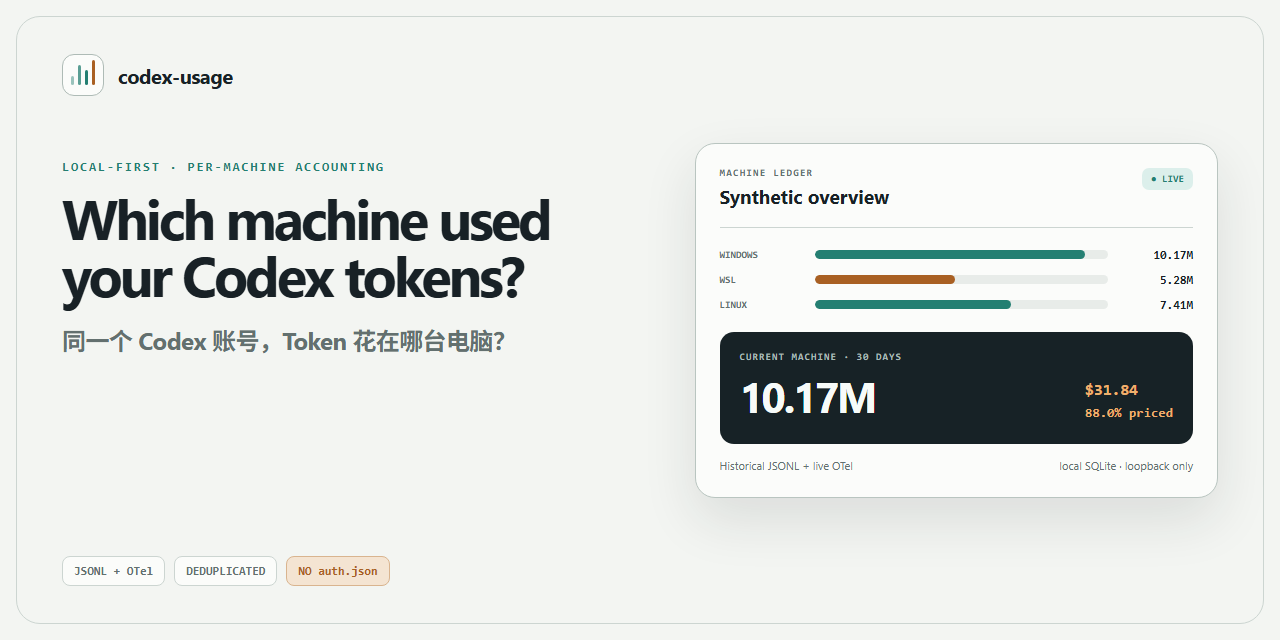
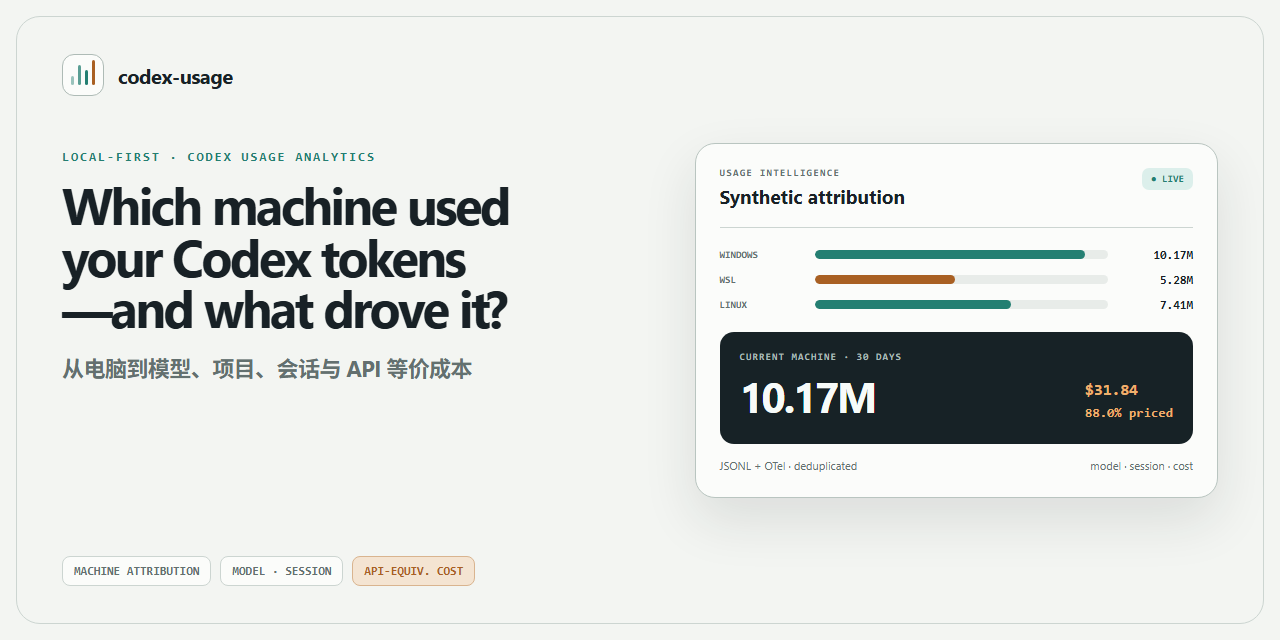
docs: broaden Codex usage analytics positioning

diff --git a/scripts/social-preview.html b/scripts/social-preview.html
@@ -15,9 +15,9 @@
     .mark { width:42px; height:42px; display:flex; align-items:end; justify-content:center; gap:4px; padding:10px 8px; border:1px solid #aebbb6; border-radius:12px; background:var(--paper); }
     .mark i { width:4px; border-radius:3px; background:var(--teal); }
     .mark i:nth-child(1){height:9px;opacity:.45}.mark i:nth-child(2){height:20px;opacity:.75}.mark i:nth-child(3){height:15px}.mark i:nth-child(4){height:25px;background:var(--copper)}
-    .kicker { margin:64px 0 16px; color:var(--teal); font:700 13px/1 ui-monospace,SFMono-Regular,Consolas,monospace; letter-spacing:.14em; }
-    h1 { max-width:650px; margin:0; font-size:56px; line-height:1.02; letter-spacing:-.055em; text-wrap:balance; }
-    .zh { margin:19px 0 0; color:var(--muted); font-size:24px; font-weight:650; letter-spacing:-.025em; }
+    .kicker { margin:54px 0 16px; color:var(--teal); font:700 13px/1 ui-monospace,SFMono-Regular,Consolas,monospace; letter-spacing:.14em; }
+    h1 { max-width:660px; margin:0; font-size:51px; line-height:1.01; letter-spacing:-.052em; text-wrap:balance; }
+    .zh { margin:17px 0 0; color:var(--muted); font-size:22px; font-weight:650; letter-spacing:-.025em; }
     .chips { display:flex; flex-wrap:wrap; gap:9px; margin-top:auto; }
     .chips span { padding:8px 11px; border:1px solid var(--line); border-radius:8px; color:var(--muted); background:var(--paper); font:650 12px/1 ui-monospace,SFMono-Regular,Consolas,monospace; }
     .chips span:last-child { color:var(--copper); border-color:#d9b48f; background:var(--copper-soft); }
@@ -44,20 +44,20 @@
   <main>
     <section class="copy">
       <div class="brand"><span class="mark" aria-hidden="true"><i></i><i></i><i></i><i></i></span>codex-usage</div>
-      <p class="kicker">LOCAL-FIRST · PER-MACHINE ACCOUNTING</p>
-      <h1>Which machine used your Codex tokens?</h1>
-      <p class="zh">同一个 Codex 账号，Token 花在哪台电脑？</p>
-      <div class="chips"><span>JSONL + OTel</span><span>DEDUPLICATED</span><span>NO auth.json</span></div>
+      <p class="kicker">LOCAL-FIRST · CODEX USAGE ANALYTICS</p>
+      <h1>Which machine used your Codex tokens—and what drove it?</h1>
+      <p class="zh">从电脑到模型、项目、会话与 API 等价成本</p>
+      <div class="chips"><span>MACHINE ATTRIBUTION</span><span>MODEL · SESSION</span><span>API-EQUIV. COST</span></div>
     </section>
     <section class="ledger">
-      <div class="ledger-head"><div><p>MACHINE LEDGER</p><strong>Synthetic overview</strong></div><span class="live">● LIVE</span></div>
+      <div class="ledger-head"><div><p>USAGE INTELLIGENCE</p><strong>Synthetic attribution</strong></div><span class="live">● LIVE</span></div>
       <div class="machines">
         <div class="machine"><small>WINDOWS</small><span class="track"><i style="width:92%"></i></span><b>10.17M</b></div>
         <div class="machine"><small>WSL</small><span class="track"><i style="width:48%"></i></span><b>5.28M</b></div>
         <div class="machine"><small>LINUX</small><span class="track"><i style="width:67%"></i></span><b>7.41M</b></div>
       </div>
       <div class="total"><div><p>CURRENT MACHINE · 30 DAYS</p><strong>10.17M</strong></div><div class="cost">$31.84<br><small>88.0% priced</small></div></div>
-      <div class="rule"><span>Historical JSONL + live OTel</span><span>local SQLite · loopback only</span></div>
+      <div class="rule"><span>JSONL + OTel · deduplicated</span><span>model · session · cost</span></div>
     </section>
   </main>
 </body>

diff --git a/internal/web/static/i18n.js b/internal/web/static/i18n.js
@@ -4,8 +4,8 @@
   const STORAGE_KEY = "codex-usage-locale";
   const catalogs = {
     "zh-CN": {
-      "app.title": "Codex Usage · 本机用量",
-      "app.description": "当前电脑的 Codex Token 用量与 Standard API 等价成本估算",
+      "app.title": "Codex Usage · 本地使用分析",
+      "app.description": "本地优先的 Codex 使用分析：逐电脑归属、模型/项目/会话明细与 Standard API 等价成本",
       "skip.main": "跳到主要内容",
       "brand.home": "返回概览",
       "nav.label": "主要视图",
@@ -227,8 +227,8 @@
       "scan.complete": "扫描完成：新增 {inserted} 个事件，忽略 {duplicates} 个重复"
     },
     en: {
-      "app.title": "Codex Usage · Per-machine usage",
-      "app.description": "Per-machine Codex token usage and Standard API-equivalent cost estimates",
+      "app.title": "Codex Usage · Local usage analytics",
+      "app.description": "Local-first Codex usage analytics by machine, model, project, and session, with Standard API-equivalent cost",
       "skip.main": "Skip to main content",
       "brand.home": "Return to overview",
       "nav.label": "Primary views",

diff --git a/internal/web/static/index.html b/internal/web/static/index.html
@@ -4,8 +4,8 @@
   <meta charset="utf-8">
   <meta name="viewport" content="width=device-width, initial-scale=1">
   <meta name="color-scheme" content="light dark">
-  <meta name="description" content="当前电脑的 Codex Token 用量与 Standard API 等价成本估算">
-  <title>Codex Usage · 本机用量</title>
+  <meta name="description" content="本地优先的 Codex 使用分析：逐电脑归属、模型/项目/会话明细与 Standard API 等价成本">
+  <title>Codex Usage · 本地使用分析</title>
   <link rel="stylesheet" href="/styles.css">
 </head>
 <body>
@@ -15,7 +15,7 @@
     <div class="topbar-inner">
       <button class="brand pressable" id="brandButton" type="button" aria-label="返回概览" data-i18n-aria-label="brand.home">
         <span class="brand-mark" aria-hidden="true"><i></i><i></i><i></i><i></i></span>
-        <span class="brand-copy"><strong>Codex Usage</strong><small>LOCAL USAGE</small></span>
+        <span class="brand-copy"><strong>Codex Usage</strong><small>USAGE ANALYTICS</small></span>
       </button>
 
       <nav class="primary-nav" role="tablist" aria-label="主要视图" data-i18n-aria-label="nav.label">

diff --git a/README.en.md b/README.en.md
@@ -2,9 +2,9 @@
 
 # codex-usage
 
-**Which machine used your Codex tokens?**
+**Which machine, model, project, or session used your Codex tokens?**
 
-*同一个 Codex 账号跑在多台电脑：哪台机器用掉了 Token？*
+*本地优先的 Codex 使用分析：从逐电脑归属，到模型、项目、会话与 API 等价成本。*
 
 [Live Demo](https://zjay26.github.io/codex-usage/?lang=en) · [Windows x64](https://github.com/zJay26/codex-usage/releases/latest/download/codex-usage-windows-amd64.exe) · [Linux x64](https://github.com/zJay26/codex-usage/releases/latest/download/codex-usage-linux-amd64) · English / [简体中文](README.md)
 
@@ -23,13 +23,28 @@
 
 Run one single-file binary on each Windows, WSL, or Linux host. It scans that machine's historical Codex JSONL and receives future usage over loopback OTel. Coverage-aware merge rules deduplicate the two sources, and the result stays in that machine's SQLite database. The Dashboard therefore answers **how much this computer used**, not how much the whole account used.
 
-The differentiators are deliberately narrow: per-machine scope, historical JSONL + live OTel, deduplication, single-file deployment, local-first operation, and **no access to `auth.json`**.
+Per-machine attribution is codex-usage's most distinctive entry point, but it is not the endpoint. It breaks the local total down by model and token category, project, Thread, Session, Agent, and local calendar day, then adds Standard API-equivalent cost, pricing coverage, and data-quality records.
+
+Codex's official [`/usage`](https://learn.chatgpt.com/docs/developer-commands.md?surface=cli) is useful for daily, weekly, and cumulative account token activity. codex-usage complements that account view with an explainable local attribution layer: **where these machine-local tokens came from and what drove them**.
+
+The analysis stays local-first: one binary, loopback-only services, local SQLite, and **no access to `auth.json` or conversation content**.
+
+## From totals to explainable usage analytics
+
+| Question | What codex-usage shows |
+|---|---|
+| Which machine used the tokens? | An independent ledger for each Windows, WSL, or Linux host |
+| Which models and token categories drove usage? | Model plus Input, Cached, Cache Write, Output, and Reasoning composition |
+| Which work drove it? | Project, Thread, Session, and main task / Subagent / Guardian / Memory attribution |
+| When did it happen? | Today, 7 days, 30 days, all time, local calendar days, and single-day drill-down |
+| What would it roughly cost at API rates? | Standard API-equivalent cost with explicit token pricing coverage |
+| Can the number be audited? | JSONL / OTel provenance, coverage-aware deduplication, unattributed deltas, and data-quality records |
 
 ## What it counts / what it does not count
 
 | Counts | Does not count or read |
 |---|---|
-| Tokens, models, sources, projects, Threads, Agents, and local calendar days on this machine | Usage from other machines on the account |
+| Tokens, models, sources, projects, Threads, Sessions, Agents, and local calendar days on this machine | Usage from other machines on the account |
 | Historical session JSONL and future `turn.token_usage` OTel metrics | Account quota, subscription balance, or real bills |
 | Standard API text-token equivalent cost and pricing coverage | Prompts, replies, reasoning, tool output, or `auth.json` |
 | Dedup records, coverage gaps, and historical deltas without dates | Cloud sync, remote telemetry, or third-party analytics |
@@ -63,12 +78,13 @@ On a headless Linux server, Codex Usage prints an SSH tunnel command. Run it fro
 
 | Capability | What you get |
 |---|---|
-| Per-machine accounting | A separate `machine_id` and SQLite database on every host |
+| Signature per-machine attribution | A separate `machine_id` and SQLite database on every host |
 | Historical + live | Scan existing JSONL first, then receive official OTel metrics |
 | Deduplication | Merge OTel, JSONL, and state data by explicit coverage rules instead of summing them |
 | Daily drill-down | Continuous daily pulse, calendar, zero-usage days, and per-day model mix |
-| Useful attribution | Filter by model, source, project, Thread, main task, Subagent, Guardian, or Memory |
-| Equivalent cost | Query-time estimate with visible token pricing coverage; unknown usage never looks free |
+| Multi-dimensional usage analytics | Understand usage by model, token category, source, project, Thread, Session, main task, Subagent, Guardian, or Memory |
+| Cost insight | Query-time Standard API-equivalent estimate with visible token pricing coverage; unknown usage never looks free |
+| Auditable quality | Visible provenance, dedup records, coverage gaps, and historical deltas without dates |
 | Local-first | Loopback-only at `127.0.0.1`, embedded assets, and no runtime external requests |
 | Single binary | Windows/Linux, amd64/arm64, no CGO or external database service |
 | Bilingual | Dashboard and CLI support `zh-CN` / `en` through URL, button, flag, and environment |

diff --git a/README.md b/README.md
@@ -2,9 +2,9 @@
 
 # codex-usage
 
-**同一个 Codex 账号跑在多台电脑：哪台机器用掉了 Token？**
+**同一个 Codex 账号：哪台电脑、哪个模型、哪个项目和会话用掉了 Token？**
 
-*Which machine used your Codex tokens?*
+*Local-first Codex usage analytics—from machine attribution to models, projects, sessions, and API-equivalent cost.*
 
 [在线体验](https://zjay26.github.io/codex-usage/?lang=zh-CN) · [Windows x64 下载](https://github.com/zJay26/codex-usage/releases/latest/download/codex-usage-windows-amd64.exe) · [Linux x64 下载](https://github.com/zJay26/codex-usage/releases/latest/download/codex-usage-linux-amd64) · [English](README.en.md) / 简体中文
 
@@ -23,13 +23,28 @@
 
 在每台 Windows、WSL 或 Linux 主机分别运行一个单文件程序。它扫描该机的历史 Codex JSONL，并通过 loopback OTel 接收之后的新用量；两种来源按覆盖时间合并和去重，结果只写入该机的 SQLite。Dashboard 因而回答的是**这台电脑用了多少**，不是整个账号用了多少。
 
-核心差异只有六点：逐电脑口径、历史 JSONL + 实时 OTel、防重复计算、单文件部署、本地优先，以及**从不读取 `auth.json`**。
+逐电脑归属是 codex-usage 最鲜明的入口，但不是终点。它把本机总量继续拆到模型与 Token 类型、项目、Thread、Session、Agent 和本地自然日，并给出 Standard API 等价成本、定价覆盖率与数据质量记录。
+
+Codex 官方 [`/usage`](https://learn.chatgpt.com/docs/developer-commands.md?surface=cli) 适合查看账号级 daily / weekly / cumulative Token 活动；codex-usage 不替代官方视图，而是补上**这些本机 Token 在哪里产生、由什么构成**的可解释归属层。
+
+分析全程保持本地优先：单文件部署、loopback 服务、本机 SQLite，**从不读取 `auth.json` 或对话内容**。
+
+## 从总量到可解释的使用分析
+
+| 你想知道 | codex-usage 给出的视图 |
+|---|---|
+| 哪台电脑用了 Token？ | 每台 Windows、WSL 或 Linux 主机独立统计，保留清晰机器边界 |
+| 用在了什么模型与 Token 类型？ | 模型及 Input、Cached、Cache Write、Output、Reasoning 构成 |
+| 哪项工作驱动了用量？ | 项目、Thread、Session，以及主任务 / Subagent / Guardian / Memory 归属 |
+| 什么时候发生？ | 今天、7 日、30 日、全部历史、本地自然日与单日下钻 |
+| 如果按 API 价格折算大约是多少？ | Standard API 等价成本与明确的 Token 定价覆盖率 |
+| 这些数字能否被复核？ | JSONL / OTel 来源、防重覆盖区间、未归属差额与数据质量记录 |
 
 ## 它统计什么 / 不统计什么
 
 | 统计 | 不统计 |
 |---|---|
-| 当前电脑的 Token、模型、来源、项目、Thread、Agent 和本地自然日 | 账号在其他电脑上的用量 |
+| 当前电脑的 Token、模型、来源、项目、Thread、Session、Agent 和本地自然日 | 账号在其他电脑上的用量 |
 | 历史 session JSONL 与未来 `turn.token_usage` OTel 指标 | 账号配额、订阅余额或真实账单 |
 | Standard API 文本 Token 的等价成本与定价覆盖率 | prompt、回复、reasoning、工具输出或 `auth.json` |
 | 去重记录、覆盖缺口和无法按日期归属的历史差额 | 云同步、远程遥测或第三方分析 |
@@ -67,12 +82,13 @@ Linux 服务器没有桌面环境时，程序会打印 SSH 隧道命令。在自
 
 | 功能 | 你得到什么 |
 |---|---|
-| 逐电脑统计 | 每台机器生成独立 `machine_id` 和 SQLite 数据库，不把账号其他电脑混进来 |
+| 标志性的逐电脑归属 | 每台机器生成独立 `machine_id` 和 SQLite 数据库，不把账号其他电脑混进来 |
 | 历史 + 实时 | 首次扫描已有 JSONL，之后接收官方 OTel 指标 |
 | 防重 | OTel、JSONL 与状态库按明确覆盖规则合并，不直接相加 |
 | 每日下钻 | 连续自然日脉冲带、月历、零用量日与单日模型构成 |
-| 清晰归属 | 按模型、来源、项目、Thread、主任务/Subagent/Guardian/Memory 筛选 |
-| 等价成本 | 查询时估算并显示 Token 定价覆盖率，未知部分不伪装成零费用 |
+| 多维使用分析 | 按模型、Token 类型、来源、项目、Thread、Session、主任务/Subagent/Guardian/Memory 理解用量 |
+| 成本洞察 | 查询时估算 Standard API 等价成本并显示定价覆盖率，未知部分不伪装成零费用 |
+| 可审计质量 | 明示来源、防重记录、覆盖缺口和未按日期归属的历史差额 |
 | 本地优先 | 只监听 `127.0.0.1`，资源嵌入二进制，无运行时外部请求 |
 | 单文件部署 | Windows/Linux、amd64/arm64、无 CGO、无需外部数据库服务 |
 | 双语 | Dashboard 与 CLI 支持 `zh-CN` / `en`，URL、按钮、环境变量均可切换 |

diff --git a/docs/releases/v1.0.0.md b/docs/releases/v1.0.0.md
@@ -1,10 +1,11 @@
 # codex-usage v1.0.0
 
-`v1.0.0` is the first stable-interface release of the local-first, per-machine accounting workflow. It adds complete Chinese/English localization and a safe interactive demo built entirely from synthetic data without changing the existing accounting or automation interfaces.
+`v1.0.0` is the first stable-interface release of local-first Codex usage analytics. Per-machine attribution is its signature entry point; model, token-category, project, Thread, Session, Agent, local-day, and Standard API-equivalent-cost views turn a total into explainable local usage. This release also adds complete Chinese/English localization and a safe interactive demo built entirely from synthetic data without changing the existing accounting or automation interfaces.
 
 ## Highlights
 
 - Complete `zh-CN` / `en` Dashboard localization, including dates, numbers, ARIA labels, empty states, Toasts, filters, pricing, and data-quality labels.
+- Multi-dimensional local attribution across machines, models, token categories, projects, Threads, Sessions, Agents, and calendar days, with pricing coverage and an auditable source-merging trail.
 - Dashboard locale precedence: `?lang=en|zh-CN`, saved header-button choice, browser locale, then Chinese fallback.
 - Global CLI language selection with `codex-usage --lang en install` or `CODEX_USAGE_LANG=en`; Windows UI locale and Linux locale variables are used when neither is set.
 - GitHub Pages Live Demo that reuses the production frontend and intercepts every `/api/v1/*` call with a session-only synthetic adapter.
@@ -27,4 +28,4 @@ Release assets include Windows and Linux binaries for amd64 and arm64 plus `SHA2
 
 ---
 
-`v1.0.0` 是本地优先、逐电脑 Codex Token 统计工具的首个稳定接口版本。它为 Dashboard 与 CLI 增加完整中英双语，并上线完全使用合成数据的交互 Demo；统计口径、JSONL / OTel 合并、SQLite、JSON/CSV 字段和 `/api/v1/*` 均保持兼容。在线 Demo 不读取本机文件、不设 Cookie、无埋点、无外部请求，刷新后重置。
+`v1.0.0` 是本地优先 Codex 使用分析工具的首个稳定接口版本。逐电脑归属是最鲜明的入口；模型与 Token 类型、项目、Thread、Session、Agent、本地自然日和 Standard API 等价成本共同把总量变成可解释的本机使用分析。该版本同时为 Dashboard 与 CLI 增加完整中英双语，并上线完全使用合成数据的交互 Demo；统计口径、JSONL / OTel 合并、SQLite、JSON/CSV 字段和 `/api/v1/*` 均保持兼容。在线 Demo 不读取本机文件、不设 Cookie、无埋点、无外部请求，刷新后重置。
